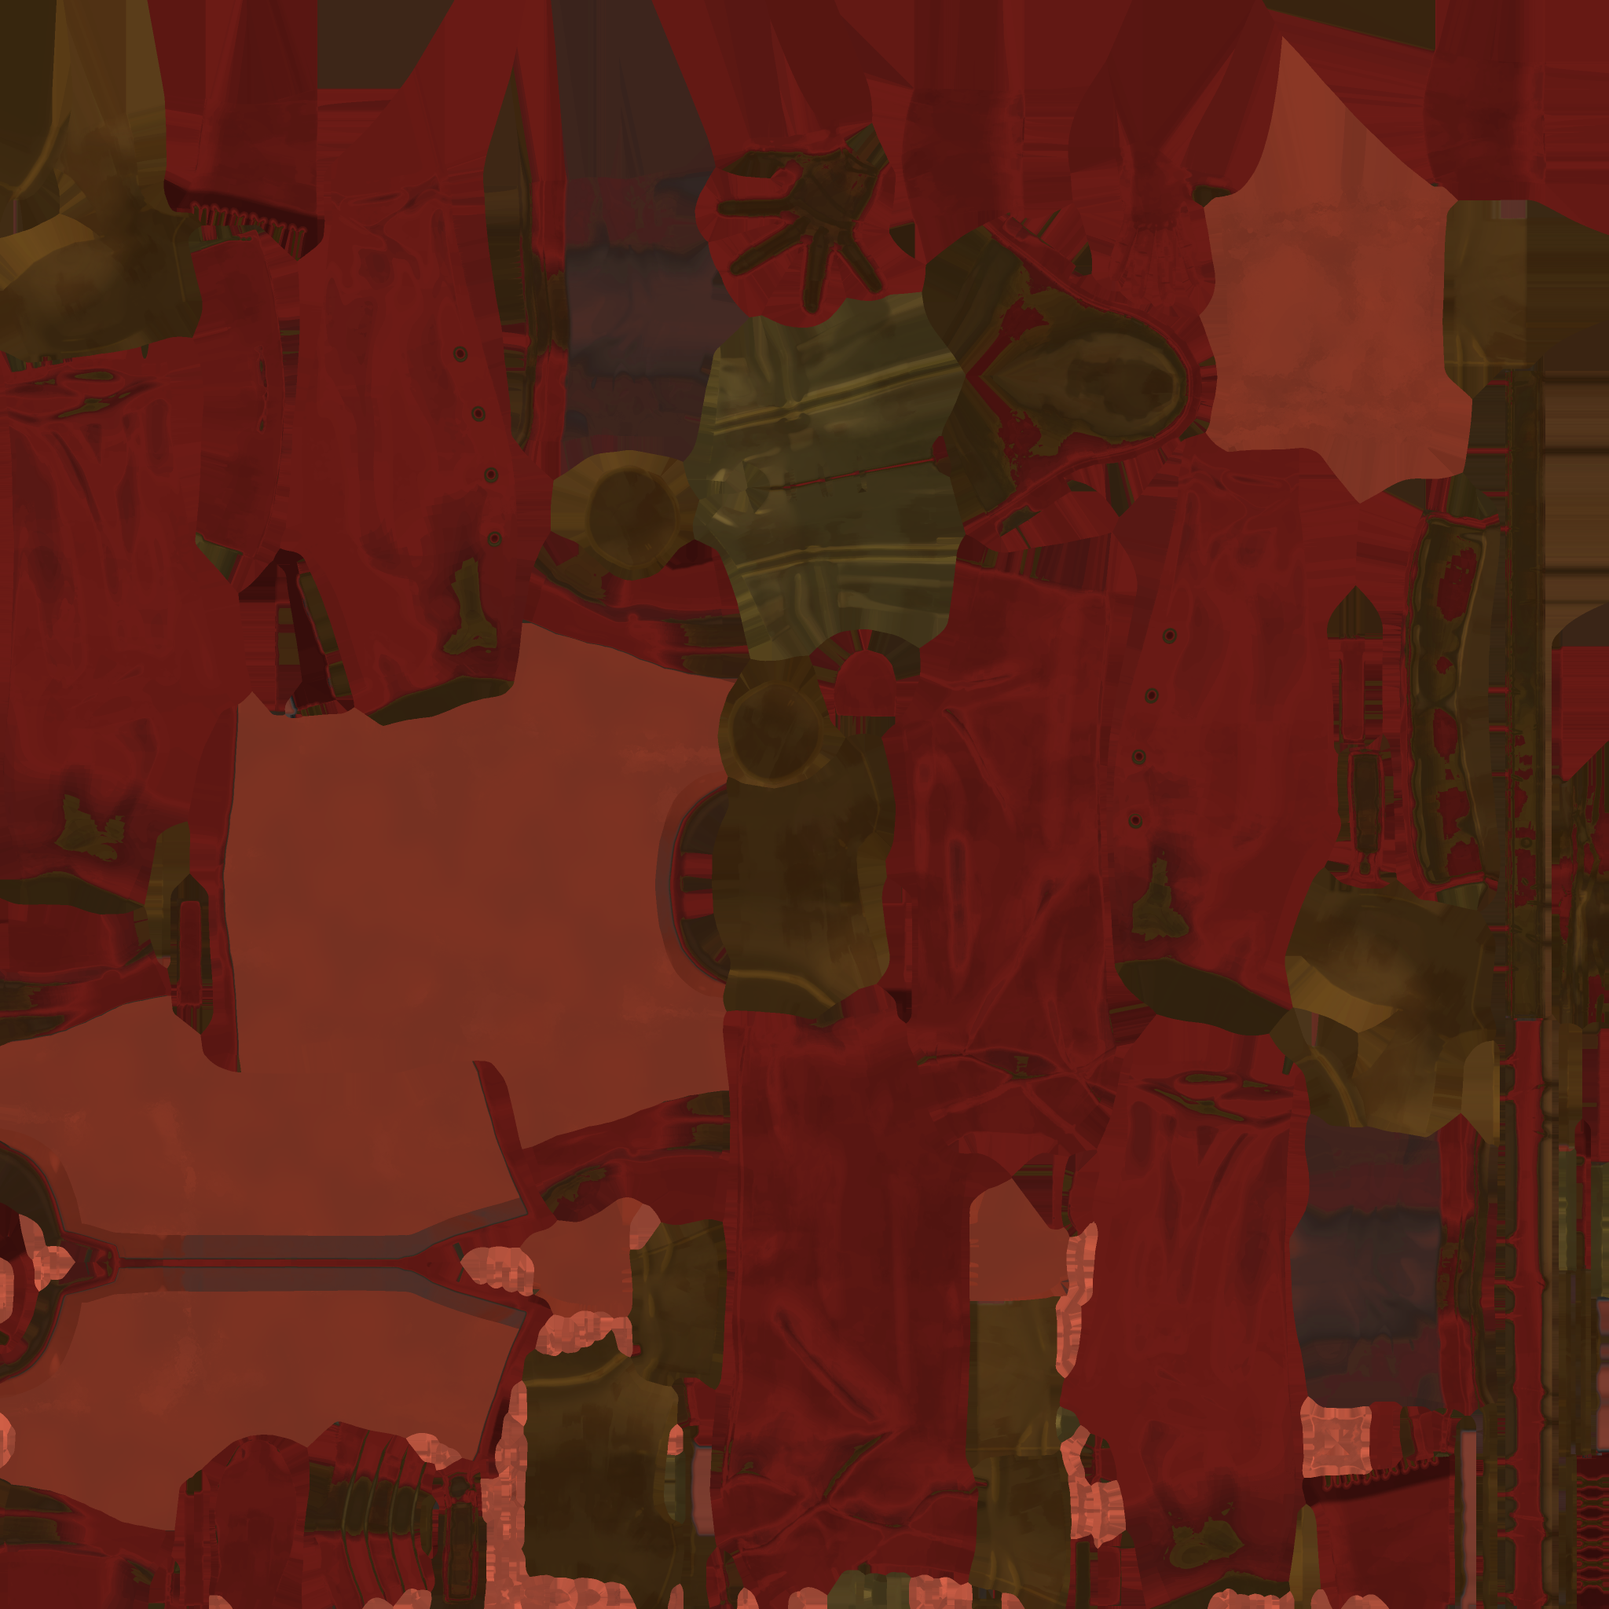
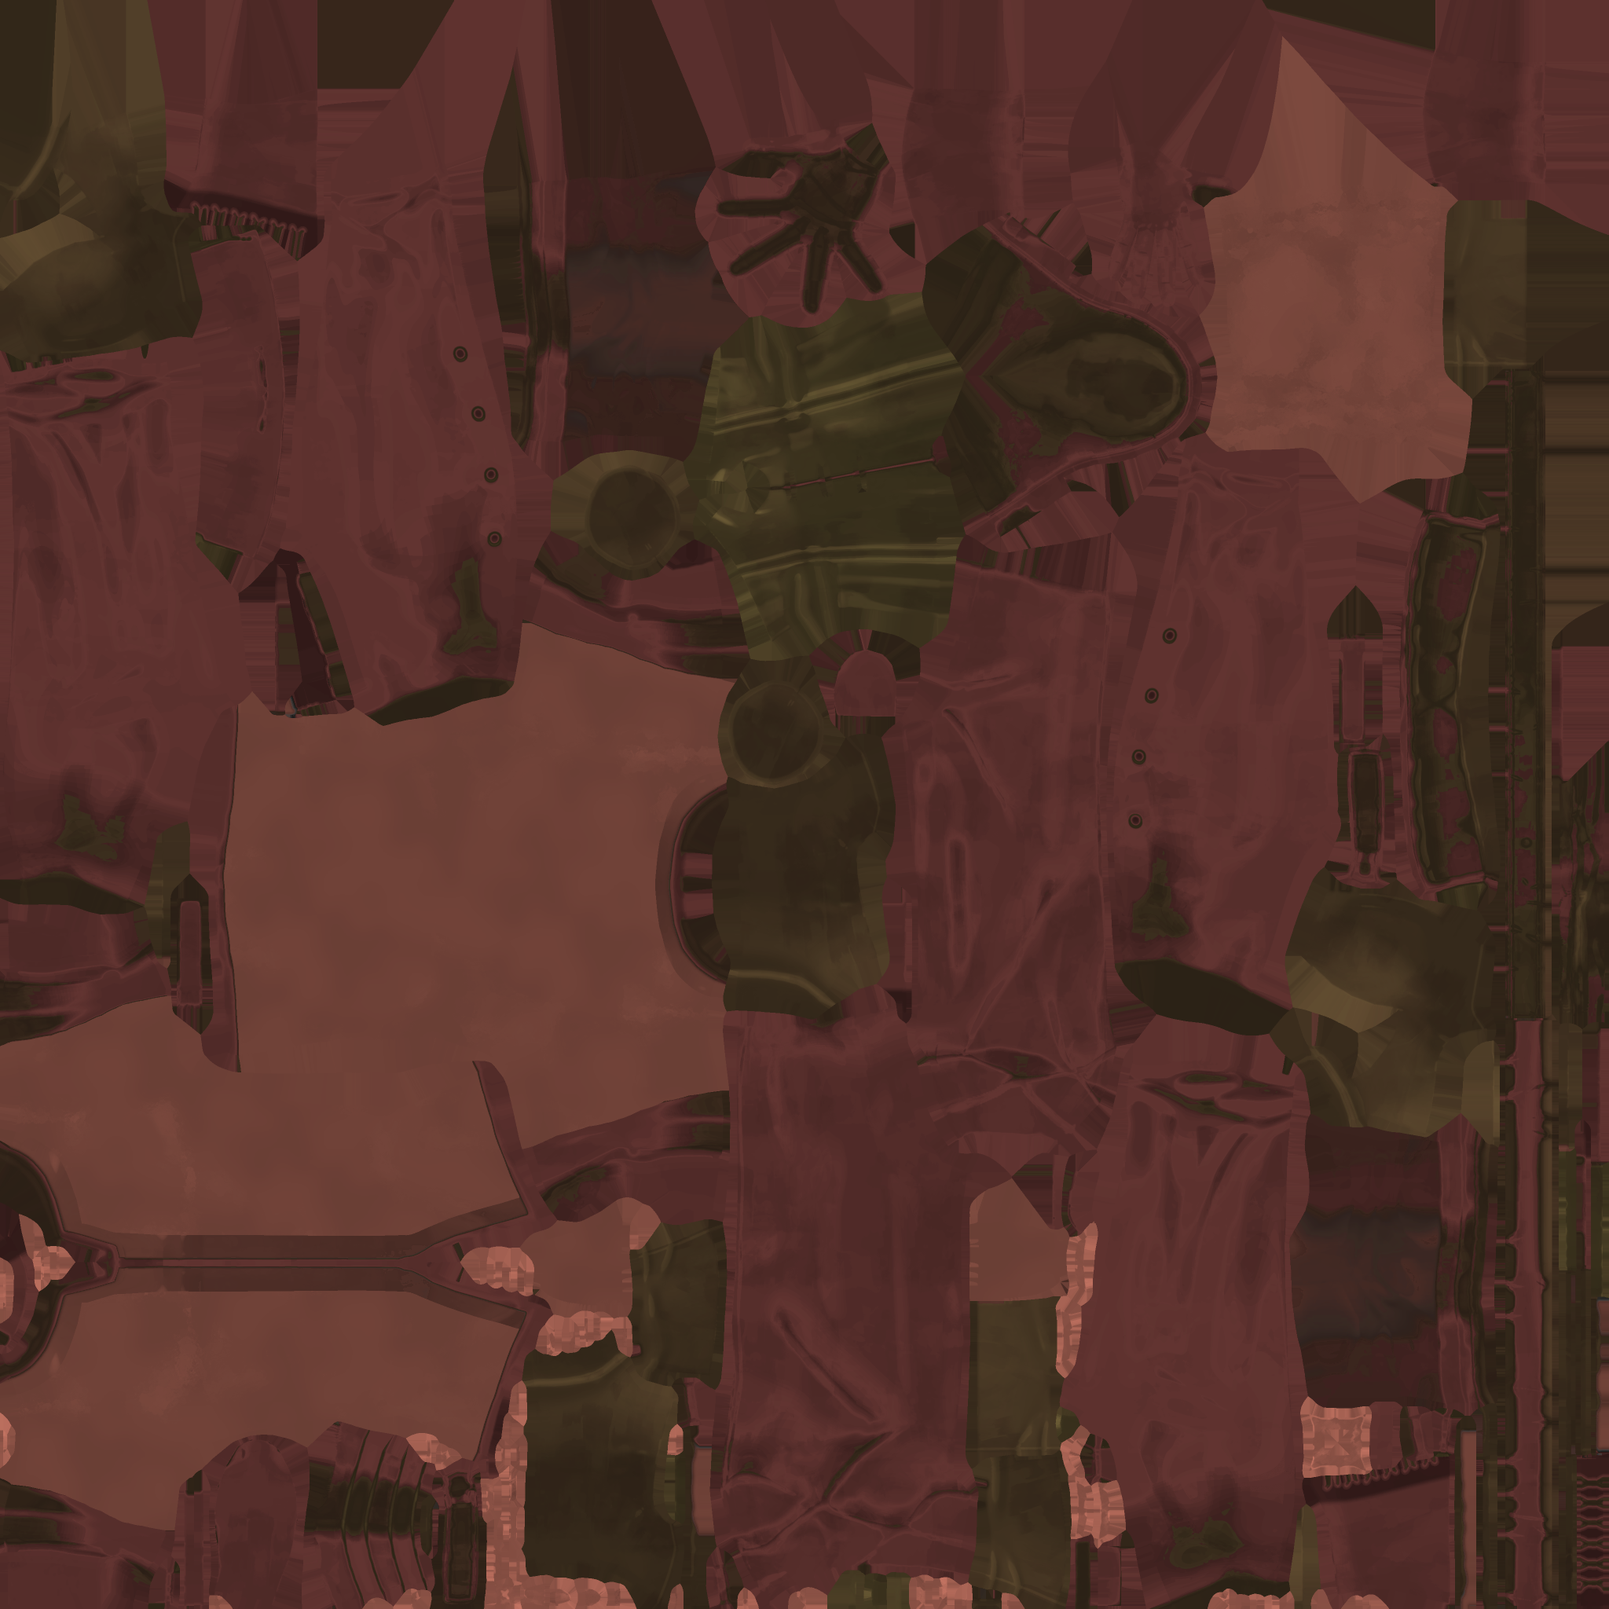
feat(assets): mute mage set textures, armor review and guide; corrected balance curve; drop Cleric from scope

diff --git a/tools/outfits/mute_textures.py b/tools/outfits/mute_textures.py
@@ -1,0 +1,42 @@
+"""Baja la saturación de las texturas de un grupo de sets para acercarlas a la paleta apagada de Quaternius.
+
+  blender -b --factory-startup --python tools/outfits/mute_textures.py -- <prefijo> [sat_max=0.50] [valor=0.90]
+
+Ejemplo: `-- mg` procesa assets/models/creator/outfits/T_*_BaseColor_mg_*.png.
+Solo toca los píxeles cuya saturación supera `sat_max` (la tela teñida); cuero, metal y piel quedan igual.
+Idempotente: pasarlo dos veces no cambia nada más. Para regenerar desde cero, vuelve a correr el
+make_<clase>_textures.py correspondiente y después este script.
+"""
+import bpy, sys, os, glob
+import numpy as np
+
+ROOT = os.path.dirname(os.path.dirname(os.path.dirname(os.path.abspath(__file__))))
+DIR = os.path.join(ROOT, "assets", "models", "creator", "outfits")
+
+args = sys.argv[sys.argv.index("--") + 1:] if "--" in sys.argv else []
+prefix = args[0] if args else "mg"
+sat_max = float(args[1]) if len(args) > 1 else 0.50
+value = float(args[2]) if len(args) > 2 else 0.90
+
+for path in sorted(glob.glob(os.path.join(DIR, "T_*_BaseColor_%s_*.png" % prefix))):
+    img = bpy.data.images.load(path)
+    w, h = img.size
+    px = np.empty(w * h * 4, dtype=np.float32)
+    img.pixels.foreach_get(px)
+    px = px.reshape(-1, 4)
+    rgb = px[:, :3]
+    mx = rgb.max(axis=1)
+    mn = rgb.min(axis=1)
+    sat = np.where(mx > 1e-5, (mx - mn) / np.maximum(mx, 1e-5), 0.0)
+    over = sat > sat_max
+    # Reducir saturación a sat_max: acercar cada canal al máximo (conserva el tono) y oscurecer un poco.
+    k = np.where(over, sat_max / np.maximum(sat, 1e-5), 1.0)[:, None]
+    muted = mx[:, None] - (mx[:, None] - rgb) * k
+    muted = np.where(over[:, None], muted * value, rgb)
+    px[:, :3] = muted
+    img.pixels.foreach_set(px.reshape(-1))
+    img.filepath_raw = path
+    img.file_format = "PNG"
+    img.save()
+    print("OK %s  píxeles ajustados: %.0f%%" % (os.path.basename(path), 100.0 * over.mean()))
+    bpy.data.images.remove(img)

diff --git a/docs/BALANCE.md b/docs/BALANCE.md
@@ -1,46 +1,46 @@
 # Curva de balance por piso (generado por tools/balance/floor_curve.gd)
 
-Bot de cada clase con el nivel y el equipo esperados, 3 semillas por campamento. `gk` = golpes básicos del jugador para matar; `ga` = golpes del enemigo que aguanta el jugador.
+Bot de cada clase con el nivel y el equipo esperados, 2 semillas por campamento. `gk` = golpes básicos del jugador para matar; `ga` = golpes del enemigo que aguanta el jugador.
 
 | Piso | Clase | Nv | Vida | Golpe | Red.fís | Esbirro vida/golpe (gk/ga) | Élite vida/golpe (gk/ga) | Jefe vida/golpe (gk/ga) | Victorias | Vida restante | s/camp |
 |---|---|---|---|---|---|---|---|---|---|---|---|
-| 1 | warrior | 1 | 300 | 16 | 23% | 60 / 4 (4.2 / 60) | 240 / 7 (19.2 / 40) | — | 100% | 74% | 8 |
-| 1 | rogue | 1 | 300 | 13 | 12% | 60 / 5 (5.0 / 52) | 240 / 8 (22.6 / 35) | — | 100% | 77% | 8 |
-| 1 | mage | 1 | 300 | 19 | 7% | 60 / 6 (3.0 / 49) | 240 / 9 (12.2 / 33) | — | 100% | 86% | 7 |
-| 1 | ranger | 1 | 300 | 16 | 14% | 60 / 5 (4.2 / 54) | 240 / 8 (19.2 / 36) | — | 100% | 75% | 12 |
-| 2 | warrior | 2 | 401 | 21 | 25% | 76 / 5 (4.2 / 74) | 305 / 8 (19.1 / 49) | — | 100% | 65% | 9 |
-| 2 | rogue | 2 | 401 | 18 | 13% | 76 / 6 (4.9 / 64) | 305 / 9 (22.1 / 42) | — | 88% | 64% | 9 |
-| 2 | mage | 2 | 401 | 24 | 8% | 76 / 6 (3.1 / 60) | 305 / 10 (12.2 / 40) | — | 100% | 67% | 9 |
-| 2 | ranger | 2 | 401 | 20 | 15% | 76 / 6 (4.3 / 65) | 305 / 9 (19.4 / 44) | — | 66% | 74% | 10 |
-| 3 | warrior | 3 | 542 | 21 | 26% | 93 / 5 (5.1 / 92) | 374 / 8 (23.2 / 61) | — | 66% | 70% | 15 |
-| 3 | rogue | 3 | 542 | 18 | 14% | 93 / 6 (5.9 / 79) | 374 / 10 (27.0 / 53) | — | 66% | 69% | 15 |
-| 3 | mage | 3 | 542 | 25 | 9% | 93 / 7 (3.7 / 74) | 374 / 10 (14.9 / 49) | — | 100% | 69% | 12 |
-| 3 | ranger | 3 | 542 | 20 | 17% | 93 / 6 (5.2 / 81) | 374 / 10 (23.6 / 54) | — | 66% | 59% | 37 |
-| 4 | warrior | 4 | 643 | 22 | 27% | 111 / 6 (5.8 / 101) | 447 / 9 (26.6 / 67) | — | 83% | 35% | 14 |
-| 4 | rogue | 4 | 643 | 19 | 15% | 111 / 7 (6.8 / 86) | 447 / 11 (30.9 / 58) | — | 83% | 33% | 16 |
-| 4 | mage | 4 | 643 | 26 | 9% | 111 / 7 (4.3 / 81) | 447 / 11 (17.0 / 54) | — | 83% | 58% | 30 |
-| 4 | ranger | 4 | 643 | 21 | 18% | 111 / 7 (5.9 / 89) | 447 / 10 (27.1 / 59) | — | 83% | 40% | 38 |
-| 5 | warrior | 4 | 633 | 22 | 28% | 130 / 6 (6.8 / 92) | 523 / 10 (31.1 / 61) | 3081 / 12 (228.5 / 50) | 50% | 41% | 17 |
-| 5 | rogue | 4 | 633 | 19 | 16% | 130 / 8 (7.9 / 78) | 523 / 12 (36.2 / 52) | 3081 / 14 (265.5 / 43) | 41% | 44% | 17 |
-| 5 | mage | 4 | 633 | 26 | 10% | 130 / 8 (5.0 / 73) | 523 / 12 (19.9 / 49) | 3081 / 15 (117.2 / 40) | 50% | 55% | 74 |
-| 5 | ranger | 4 | 633 | 21 | 19% | 130 / 7 (7.0 / 81) | 523 / 11 (31.7 / 54) | 3081 / 14 (232.6 / 44) | 25% | 68% | 59 |
-| 6 | warrior | 5 | 734 | 24 | 30% | 150 / 7 (7.3 / 100) | 602 / 11 (33.1 / 66) | — | 25% | 58% | 18 |
-| 6 | rogue | 5 | 734 | 20 | 17% | 150 / 8 (8.5 / 84) | 602 / 13 (38.5 / 56) | — | 33% | 41% | 21 |
-| 6 | mage | 5 | 734 | 28 | 11% | 150 / 9 (5.3 / 78) | 602 / 14 (21.1 / 52) | — | 66% | 48% | 42 |
-| 6 | ranger | 5 | 734 | 23 | 20% | 150 / 8 (7.4 / 87) | 602 / 12 (33.7 / 58) | — | 25% | 49% | 28 |
-| 7 | warrior | 5 | 869 | 34 | 34% | 171 / 7 (5.8 / 116) | 685 / 11 (26.6 / 77) | — | 50% | 40% | 13 |
-| 7 | rogue | 5 | 869 | 29 | 21% | 171 / 9 (6.7 / 96) | 685 / 13 (30.5 / 64) | — | 33% | 55% | 18 |
-| 7 | mage | 5 | 869 | 41 | 13% | 171 / 9 (4.1 / 88) | 685 / 14 (16.4 / 59) | — | 66% | 51% | 42 |
-| 7 | ranger | 5 | 869 | 34 | 23% | 171 / 8 (5.8 / 100) | 685 / 13 (26.4 / 67) | — | 33% | 63% | 59 |
-| 8 | warrior | 6 | 940 | 35 | 34% | 192 / 8 (6.4 / 116) | 771 / 12 (29.1 / 78) | — | 53% | 37% | 15 |
-| 8 | rogue | 6 | 940 | 30 | 21% | 192 / 9 (7.3 / 96) | 771 / 14 (33.3 / 64) | — | 26% | 57% | 16 |
-| 8 | mage | 6 | 940 | 43 | 14% | 192 / 10 (4.5 / 88) | 771 / 15 (17.9 / 59) | — | 60% | 58% | 35 |
-| 8 | ranger | 6 | 940 | 35 | 24% | 192 / 9 (6.3 / 100) | 771 / 14 (28.8 / 67) | — | 53% | 39% | 40 |
-| 9 | warrior | 6 | 940 | 33 | 34% | 215 / 8 (7.5 / 108) | 861 / 13 (34.1 / 72) | — | 20% | 33% | 17 |
-| 9 | rogue | 6 | 940 | 29 | 21% | 215 / 10 (8.6 / 89) | 861 / 15 (39.1 / 60) | — | 33% | 33% | 17 |
-| 9 | mage | 6 | 940 | 41 | 14% | 215 / 11 (5.2 / 82) | 861 / 17 (21.0 / 55) | — | 26% | 54% | 57 |
-| 9 | ranger | 6 | 940 | 33 | 24% | 215 / 10 (7.4 / 93) | 861 / 15 (33.8 / 62) | — | 13% | 36% | 51 |
-| 10 | warrior | 6 | 940 | 35 | 34% | 238 / 9 (7.8 / 100) | 954 / 14 (35.5 / 67) | 5387 / 17 (250.7 / 55) | 20% | 17% | 15 |
-| 10 | rogue | 6 | 940 | 31 | 21% | 238 / 11 (8.9 / 83) | 954 / 16 (40.7 / 55) | 5387 / 20 (287.8 / 46) | 20% | 32% | 16 |
-| 10 | mage | 6 | 940 | 43 | 14% | 238 / 12 (5.5 / 76) | 954 / 18 (21.8 / 51) | 5387 / 22 (123.3 / 42) | 26% | 57% | 110 |
-| 10 | ranger | 6 | 940 | 36 | 24% | 238 / 10 (7.7 / 86) | 954 / 16 (35.2 / 57) | 5387 / 19 (248.5 / 47) | 6% | 16% | 47 |
+| 1 | warrior | 1 | 300 | 16 | 23% | 60 / 4 (4.2 / 60) | 240 / 7 (19.2 / 40) | — | 100% | 74% | 9 |
+| 1 | rogue | 1 | 300 | 13 | 12% | 60 / 5 (5.0 / 52) | 240 / 8 (22.6 / 35) | — | 100% | 82% | 8 |
+| 1 | mage | 1 | 300 | 19 | 7% | 60 / 6 (3.0 / 49) | 240 / 9 (12.2 / 33) | — | 100% | 83% | 6 |
+| 1 | ranger | 1 | 300 | 16 | 14% | 60 / 5 (4.2 / 54) | 240 / 8 (19.2 / 36) | — | 100% | 74% | 15 |
+| 2 | warrior | 2 | 401 | 21 | 25% | 70 / 5 (3.9 / 74) | 282 / 8 (17.6 / 49) | — | 100% | 64% | 9 |
+| 2 | rogue | 2 | 401 | 18 | 13% | 70 / 6 (4.5 / 64) | 282 / 9 (20.5 / 42) | — | 83% | 68% | 9 |
+| 2 | mage | 2 | 401 | 24 | 8% | 70 / 6 (2.8 / 60) | 282 / 10 (11.3 / 40) | — | 83% | 74% | 25 |
+| 2 | ranger | 2 | 401 | 20 | 15% | 70 / 6 (4.0 / 65) | 282 / 9 (18.0 / 44) | — | 66% | 77% | 27 |
+| 3 | warrior | 3 | 542 | 21 | 26% | 80 / 5 (4.4 / 92) | 321 / 8 (19.9 / 61) | — | 66% | 80% | 10 |
+| 3 | rogue | 3 | 542 | 18 | 14% | 80 / 6 (5.1 / 79) | 321 / 10 (23.1 / 53) | — | 83% | 68% | 15 |
+| 3 | mage | 3 | 542 | 25 | 9% | 80 / 7 (3.2 / 74) | 321 / 10 (12.8 / 49) | — | 100% | 77% | 10 |
+| 3 | ranger | 3 | 542 | 20 | 17% | 80 / 6 (4.5 / 81) | 321 / 10 (20.3 / 54) | — | 83% | 58% | 12 |
+| 4 | warrior | 4 | 643 | 22 | 27% | 89 / 6 (4.7 / 101) | 356 / 9 (21.2 / 67) | — | 100% | 41% | 13 |
+| 4 | rogue | 4 | 643 | 19 | 15% | 89 / 7 (5.4 / 86) | 356 / 11 (24.6 / 58) | — | 100% | 40% | 15 |
+| 4 | mage | 4 | 643 | 26 | 9% | 89 / 7 (3.4 / 81) | 356 / 11 (13.6 / 54) | — | 87% | 69% | 24 |
+| 4 | ranger | 4 | 643 | 21 | 18% | 89 / 7 (4.7 / 89) | 356 / 10 (21.6 / 59) | — | 75% | 53% | 20 |
+| 5 | warrior | 4 | 633 | 22 | 28% | 97 / 6 (5.1 / 92) | 389 / 10 (23.2 / 61) | 1091 / 12 (81.0 / 50) | 62% | 52% | 12 |
+| 5 | rogue | 4 | 633 | 19 | 16% | 97 / 8 (5.9 / 78) | 389 / 12 (26.9 / 52) | 1091 / 14 (94.1 / 43) | 50% | 54% | 17 |
+| 5 | mage | 4 | 633 | 26 | 10% | 97 / 8 (3.7 / 73) | 389 / 12 (14.8 / 49) | 1091 / 15 (41.5 / 40) | 62% | 52% | 43 |
+| 5 | ranger | 4 | 633 | 21 | 19% | 97 / 7 (5.2 / 81) | 389 / 11 (23.6 / 54) | 1091 / 14 (82.4 / 44) | 37% | 62% | 104 |
+| 6 | warrior | 5 | 734 | 24 | 30% | 104 / 7 (5.1 / 100) | 419 / 11 (23.1 / 66) | — | 62% | 31% | 15 |
+| 6 | rogue | 5 | 734 | 20 | 17% | 104 / 8 (5.9 / 84) | 419 / 13 (26.8 / 56) | — | 62% | 31% | 20 |
+| 6 | mage | 5 | 734 | 28 | 11% | 104 / 9 (3.7 / 78) | 419 / 14 (14.7 / 52) | — | 62% | 75% | 52 |
+| 6 | ranger | 5 | 734 | 23 | 20% | 104 / 8 (5.1 / 87) | 419 / 12 (23.4 / 58) | — | 37% | 47% | 59 |
+| 7 | warrior | 5 | 869 | 34 | 34% | 111 / 7 (3.8 / 116) | 446 / 11 (17.4 / 77) | — | 75% | 36% | 12 |
+| 7 | rogue | 5 | 869 | 29 | 21% | 111 / 9 (4.4 / 96) | 446 / 13 (19.9 / 64) | — | 75% | 41% | 17 |
+| 7 | mage | 5 | 869 | 41 | 13% | 111 / 9 (2.7 / 88) | 446 / 14 (10.7 / 59) | — | 87% | 70% | 25 |
+| 7 | ranger | 5 | 869 | 34 | 23% | 111 / 8 (3.8 / 100) | 446 / 13 (17.2 / 67) | — | 75% | 50% | 28 |
+| 8 | warrior | 6 | 940 | 35 | 34% | 118 / 8 (3.9 / 116) | 472 / 12 (17.8 / 78) | — | 70% | 40% | 14 |
+| 8 | rogue | 6 | 940 | 30 | 21% | 118 / 9 (4.5 / 96) | 472 / 14 (20.4 / 64) | — | 60% | 43% | 14 |
+| 8 | mage | 6 | 940 | 43 | 14% | 118 / 10 (2.7 / 88) | 472 / 15 (11.0 / 59) | — | 80% | 58% | 12 |
+| 8 | ranger | 6 | 940 | 35 | 24% | 118 / 9 (3.9 / 100) | 472 / 14 (17.6 / 67) | — | 60% | 58% | 40 |
+| 9 | warrior | 6 | 940 | 33 | 34% | 124 / 8 (4.3 / 108) | 496 / 13 (19.6 / 72) | — | 60% | 44% | 14 |
+| 9 | rogue | 6 | 940 | 29 | 21% | 124 / 10 (4.9 / 89) | 496 / 15 (22.5 / 60) | — | 40% | 55% | 16 |
+| 9 | mage | 6 | 940 | 41 | 14% | 124 / 11 (3.0 / 82) | 496 / 17 (12.1 / 55) | — | 60% | 66% | 33 |
+| 9 | ranger | 6 | 940 | 33 | 24% | 124 / 10 (4.3 / 93) | 496 / 15 (19.5 / 62) | — | 60% | 43% | 47 |
+| 10 | warrior | 6 | 940 | 35 | 34% | 129 / 9 (4.2 / 100) | 518 / 14 (19.3 / 67) | 1393 / 17 (64.8 / 55) | 40% | 25% | 15 |
+| 10 | rogue | 6 | 940 | 31 | 21% | 129 / 11 (4.8 / 83) | 518 / 16 (22.1 / 55) | 1393 / 20 (74.4 / 46) | 60% | 33% | 17 |
+| 10 | mage | 6 | 940 | 43 | 14% | 129 / 12 (3.0 / 76) | 518 / 18 (11.9 / 51) | 1393 / 22 (31.9 / 42) | 50% | 42% | 81 |
+| 10 | ranger | 6 | 940 | 36 | 24% | 129 / 10 (4.2 / 86) | 518 / 16 (19.1 / 57) | 1393 / 19 (64.3 / 47) | 50% | 31% | 63 |

diff --git a/docs/ASSETS_GUIA.md b/docs/ASSETS_GUIA.md
@@ -108,4 +108,38 @@ solo la mitad derecha de abajo arriba. Así el borde sale limpio siempre. Dibuja
   rehacer la hoja con `plate()` conservando guarda y mango.
 - `mazo_piedra`: las losas turquesa colgantes no leen como runas; cambiarlas por una runa incrustada en la cabeza.
 - Cabezas de lanzas y bastones: funcionan pero son pequeñas respecto al asta; agrandarlas ~1.4×.
-- Las armaduras (`tools/outfits/`) no se han auditado con este método: falta una hoja de contacto equivalente.
+
+## 8. Armaduras y trajes (20 sets)
+
+**Cómo mirarlos** (la hoja de contacto de los trajes ya existe; la columna de la derecha es el traje original
+de Quaternius y sirve de referencia de estilo):
+
+```
+CAPTURE_DIR=<carpeta> ARMOR=1  godot --path . --position 9000,9000 --resolution 1600x900 res://tools/outfit_preview.tscn
+```
+
+Cambia `ARMOR=1` por `ROGUE=1`, `MAGE=1` o `ARCHER=1`. Salen `outfits_front.png`, `outfits_back.png` y tres
+zooms. Mira **frente y espalda** de los 5 sets en hombre y mujer, siempre al lado de la referencia.
+
+**La regla que explica qué sets funcionan y cuáles no:** los sets de pícaro, mago y arquero parten de las
+piezas del pack (recolor del atlas + piezas añadidas encima) y se ven del mismo juego que la referencia. Los 5
+de guerrero se generaron como superficies lofteadas alrededor del cuerpo con texturas neutras tileables, y
+por eso se ven de otro juego: torsos lisos sin costuras, hebillas ni remaches, y proporciones de maniquí.
+**Conclusión: recolorea y añade sobre el pack; no sustituyas el torso ni las piernas por geometría generada.**
+
+Estado tras la revisión del 2026-11-10:
+
+| Grupo | Veredicto | Qué se hizo / qué falta |
+|---|---|---|
+| Pícaro (5) | En estilo | Falta: las correas de muslo salen como una barra horizontal más ancha que las piernas (sets Ladrón y Batidor). Están en `make_rogue_extras.py::thigh_straps` (anillos con `M.limb(..., "thigh", ...)`); hay que comprobar por qué el anillo abarca las dos piernas y reducirlo a una. |
+| Arquero (5) | En estilo | Mismo fallo de correas de muslo en Explorador y Guardabosques (usan la misma función). |
+| Mago (5) | Corregido | Las faldas y túnicas eran azul/rojo/violeta casi puros. Se pasó `tools/outfits/mute_textures.py -- mg 0.50 0.90` (saturación máxima 0.50, valor ×0.90). Si se regeneran con `make_mage_textures.py`, hay que volver a pasarlo o bajar la saturación en el propio recolor. |
+| Guerrero (5) | **Fuera de estilo** | Sin tocar. Rehacer así: base = torso y piernas del traje Ranger recoloreados (acero/cuero por set), y encima solo piezas rígidas añadidas (peto, hombreras, gorjal, tabardo, yelmo), cada una con bisel y 2-3 remaches o una costura. Los yelmos y tabardos actuales sí sirven. |
+
+Lista de revisión para un traje:
+
+- [ ] Al lado de la referencia, ¿parece del mismo juego? (cantidad de detalle, tono de los colores)
+- [ ] ¿Algo atraviesa el cuerpo o flota? Mira axilas, cuello, muslos y la espalda.
+- [ ] ¿La tela teñida está apagada? Saturación ≤ 0.50; el cuero y el metal no se tocan.
+- [ ] ¿La versión de mujer conserva las piezas del set (no solo el color)?
+- [ ] ¿Se distingue cada set por la silueta de la cabeza y los hombros? Desde la cámara del juego es lo único que se ve.

diff --git a/docs/DECISIONES.md b/docs/DECISIONES.md
@@ -384,4 +384,6 @@ Lista priorizada y estado en `docs/AUDITORIA.md`. Referencia de combate: Albion 
 - **Ficha de personaje estilo WoW** (`CharacterPanel`): modelo en idle en un SubViewport (se gira arrastrando, lleva el equipo y el arma), slots alrededor con borde del color de la rareza, atributos en el centro y mochila en cuadrícula con aviso de mejora/peor.
 - **Curva medida y corregida:** con la primera fórmula el piso 1 daba 100 % de victorias al bot (74-86 % de vida restante), pero la vida enemiga crecía más rápido que el daño del jugador (esbirro: 4 golpes en el piso 1, 8 en el 10; Coloso: ~230-290 golpes básicos). Corrección: la vida se divide entre `1 + 0.05·(piso−1)` (`HEALTH_EASE`, sustituye al crecimiento +3 %) y el jefe baja de ×4.2 a ×2.0 de vida. Resultado en `docs/BALANCE.md`.
 - **Armas custom revisadas en Blender** (`docs/ASSETS_GUIA.md`, guía para futuras sesiones): hoja de contacto + auditoría (`tools/blender/audit_weapons.py`); las 5 lanzas y los 5 bastones se rehicieron desde cero con `tools/weapons/forge_lib.py` (astas rectas y gruesas, hojas a partir de un contorno, 3-6 materiales de paleta, origen en el agarre); a las otras 25 se les pasó `tools/weapons/finish_weapons.py` (soldar, normales, piezas flotantes, saturación ≤ 0.62, nombres de material reales). Regla para todo asset nuevo: generar → auditar → mirar la hoja de contacto → corregir.
-- **Pendiente** (ver `docs/AUDITORIA.md`): capturas de verificación, clase Clérigo, revisión de los 20 tipos de misión, VFX por skill, auditoría de assets con Blender, afinar la curva de los pisos 3-10 con el simulador.
+- **Clérigo descartado** (decisión del dueño, 2026-11-10): no se hará. El juego queda en 4 clases; el enemigo curandero tampoco está previsto.
+- **Armaduras revisadas** (sección 8 de `docs/ASSETS_GUIA.md`): texturas de los 5 sets de mago apagadas con `tools/outfits/mute_textures.py` (saturación ≤ 0.50). Los 5 sets de guerrero siguen fuera de estilo: regla nueva, recolorear y añadir sobre las piezas del pack en vez de generar torso y piernas.
+- **Pendiente** (ver `docs/AUDITORIA.md`): capturas de verificación, feeling visual del combate, revisión de los 20 tipos de misión, VFX por skill, auditoría de assets con Blender, afinar la curva de los pisos 3-10 con el simulador.

diff --git a/docs/AUDITORIA.md b/docs/AUDITORIA.md
@@ -60,6 +60,19 @@ Los 15 tests headless pasan en la línea base.
 | F | UI: ficha estilo WoW | ✅ código; ⏸ sin captura de verificación. HUD: solo se quitó la línea de poise |
 | G | Assets con Blender | ⏸ sin empezar |
 
+## Actualización (misma fecha, segunda pasada)
+
+- **Clérigo descartado** por decisión del dueño: el juego tiene 4 clases (Guerrero, Pícaro, Mago, Arquero).
+- **Armas:** 35 revisadas en Blender; lanzas y bastones rehechos. Detalle y pendientes en `docs/ASSETS_GUIA.md`.
+- **Armaduras:** los 20 sets revisados en captura. Magos corregidos (saturación). Pícaros y arqueros en estilo
+  salvo las correas de muslo. **Los 5 de guerrero siguen fuera de estilo** (rehacer sobre el traje del pack).
+- **Curva de balance corregida y medida** (`docs/BALANCE.md`): esbirro 4-5 golpes en todos los pisos; Coloso
+  81 golpes básicos en el piso 5 y 65 en el 10 (antes 230-290). Guerrero bot: 100 % en pisos 1, 2 y 4,
+  60-75 % en 5-9, 40 % en el 10.
+- **Feeling de combate (bloque A2): sigue sin hacer.** Hecho solo lo de sistema (cancelaciones, buffer, casts,
+  hit-stop, windup enemigo). Falta todo lo visual: animaciones y VFX por skill, contraste de enemigos,
+  indicadores de AOE, barras de vida, y ver un combate real en captura.
+
 ## Qué queda y por qué
 
 El presupuesto de uso se agotó antes de lo previsto (la ventana de 5 h pasó del 3 % al 56 %). Queda, por orden:
